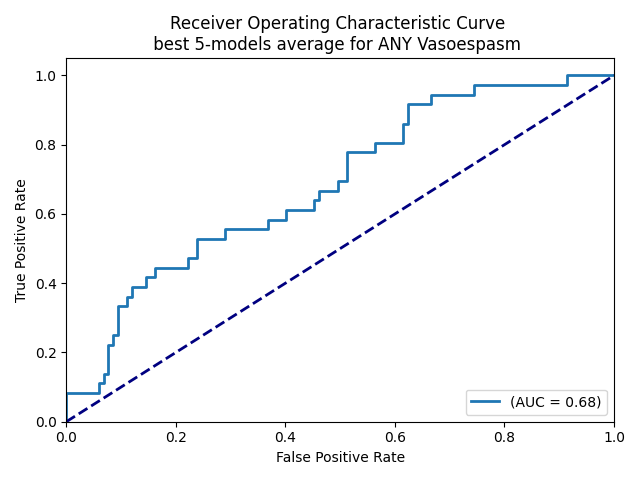
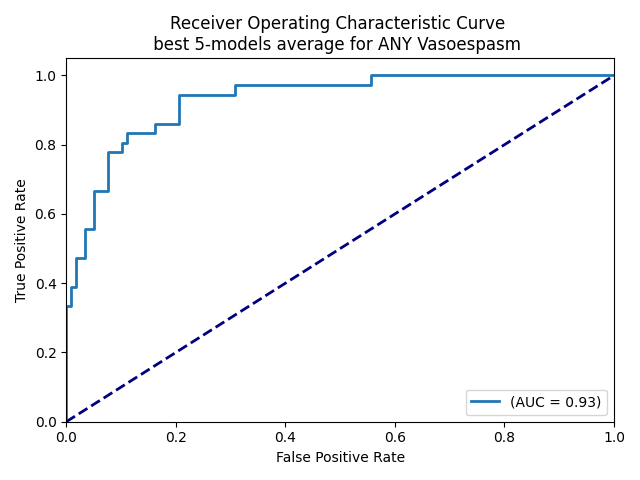
deleted files

diff --git a/predict.py b/predict.py
@@ -15,7 +15,7 @@ from model import get_model, Classifier, Classifier_Many_Layers
 
 
 if __name__ == "__main__":
-    outputs = ['VasoespasmA', 'ANY Vasoespasm ', 'Exitus', 'Hydrocephalus', 'Infarction', 'Epileptic seizure', 'Rebleeding']
+    outputs = ['ANY Vasoespasm ', 'Hydrocephalus', 'Infarction', 'Epileptic seizure', 'Rebleeding', 'VasoespasmA', 'Exitus']
     for configs.target_output in outputs :
         print(configs.target_output)
 

diff --git a/configs.py b/configs.py
@@ -29,7 +29,7 @@ patient_data2 = 8
 # 0-6 (num_classes = 7): 'mRSalta', 'mRS1año'
 # 0-38+ (num_classes = 3): 'DiasVM'
 # 0-108+ (num_classes = 3): 'DiasUCI'
-target_output = 'VasoespasmA'
+target_output = 'Infarction'
 num_classes = 2
 
 # Ro run on gpu if available
